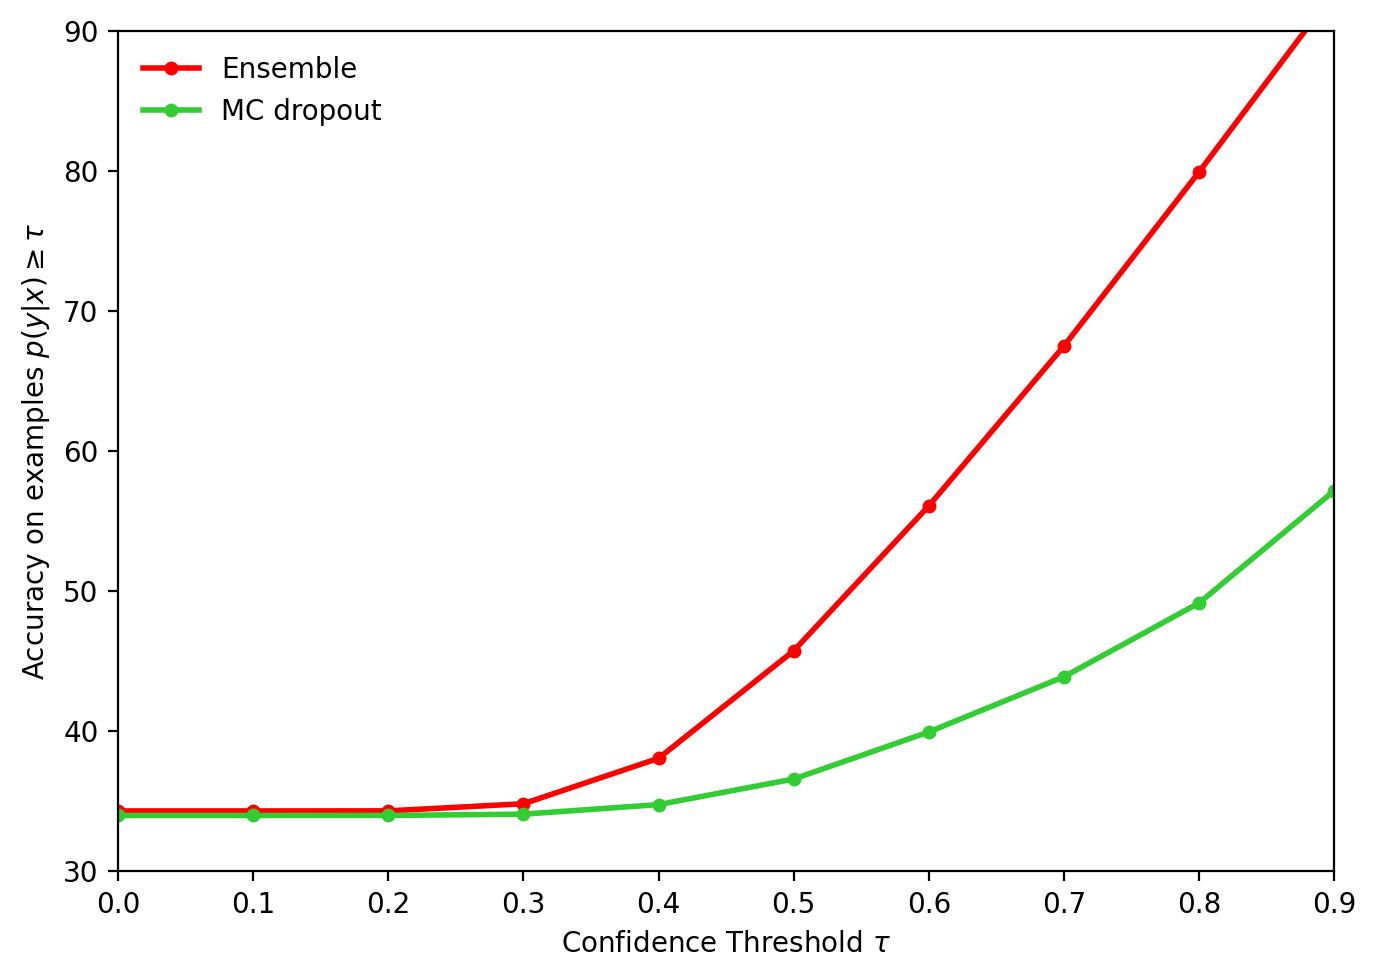
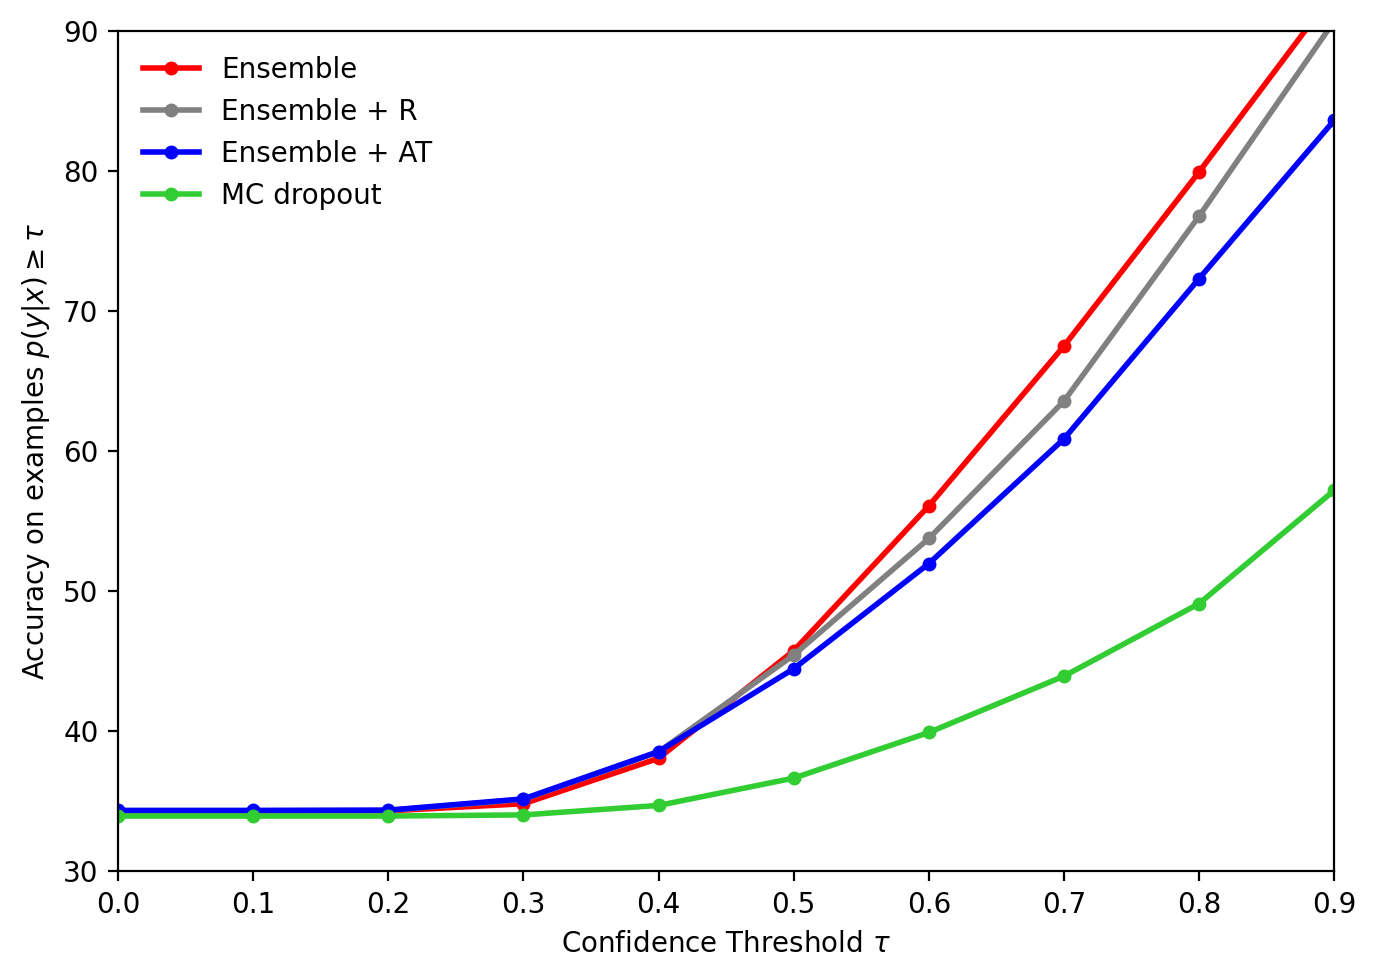
Update utils and plotting include AT and R

diff --git a/utils.py b/utils.py
@@ -21,12 +21,22 @@ def load_saved_ensemble(model_paths, device):
     return ensemble
 
 def get_mnist_checkpoint_paths():
-    ensemble_paths = [
-        f"models/classification/mnist/model_mnist_{i}.pt"
-        for i in range(1, 16)
-    ]
-    mc_dropout_path = "models/classification/mnist/model_mnist_mc_dropout.pt"
-    return ensemble_paths, mc_dropout_path
+    checkpoint_paths = {
+        "ensemble": [
+            f"models/classification/mnist/model_mnist_{i}.pt"
+            for i in range(1, 16)
+        ],
+        "ensemble_random": [
+            f"models/classification/mnist/model_random_augmentation_mnist_{i}.pt"
+            for i in range(1, 16)
+        ],
+        "ensemble_adversarial": [
+            f"models/classification/mnist/model_adversarial_augmentation_mnist_{i}.pt"
+            for i in range(1, 16)
+        ],
+        "mc_dropout": "models/classification/mnist/model_mnist_mc_dropout.pt",
+    }
+    return checkpoint_paths
 
 # Figure 3
 
@@ -36,30 +46,37 @@ def compute_entropy_comparison_results(
     device,
     ensemble_sizes=(1, 5, 10),
 ):
-    ensemble_paths, mc_dropout_path = get_mnist_checkpoint_paths()
+    checkpoint_paths = get_mnist_checkpoint_paths()
 
     experiment_results = {}
 
+    ensemble_methods = {
+      "ensemble": checkpoint_paths["ensemble"],
+      "ensemble_random": checkpoint_paths["ensemble_random"],
+      "ensemble_adversarial": checkpoint_paths["ensemble_adversarial"],
+    }
+
     # ---------- Ensembles ----------
-    for M in ensemble_sizes:
-        print(f"Running Ensemble M={M}")
-        ensemble_model = load_saved_ensemble(ensemble_paths[:M], device)
+    for method_name, model_paths in ensemble_methods.items():
+        for M in ensemble_sizes:
+            print(f"Running {method_name} M={M}")
+            ensemble_model = load_saved_ensemble(model_paths[:M], device)
 
-        mnist_probs, _ = get_predictions_and_targets(ensemble_model, mnist_test_loader, device)
-        notmnist_probs, _ = get_predictions_and_targets(ensemble_model, notmnist_loader, device)
+            mnist_probs, _ = get_predictions_and_targets(ensemble_model, mnist_test_loader, device)
+            notmnist_probs, _ = get_predictions_and_targets(ensemble_model, notmnist_loader, device)
 
-        mnist_entropy = compute_predictive_entropy(mnist_probs).cpu()
-        notmnist_entropy = compute_predictive_entropy(notmnist_probs).cpu()
+            mnist_entropy = compute_predictive_entropy(mnist_probs).cpu()
+            notmnist_entropy = compute_predictive_entropy(notmnist_probs).cpu()
 
-        experiment_results[("ensemble", M)] = {
-            "mnist_entropy": mnist_entropy,
-            "notmnist_entropy": notmnist_entropy,
-            "mnist_mean": mnist_entropy.mean().item(),
-            "notmnist_mean": notmnist_entropy.mean().item(),
-        }
+            experiment_results[(method_name, M)] = {
+                "mnist_entropy": mnist_entropy,
+                "notmnist_entropy": notmnist_entropy,
+                "mnist_mean": mnist_entropy.mean().item(),
+                "notmnist_mean": notmnist_entropy.mean().item(),
+            }
 
     # ---------- MC Dropout ----------
-    mc_model = load_saved_model(mc_dropout_path, device)
+    mc_model = load_saved_model(checkpoint_paths["mc_dropout"], device)
 
     for M in ensemble_sizes:
         print(f"Running MC Dropout M={M}")
@@ -120,29 +137,38 @@ def compute_confidence_comparison_results(
     if thresholds is None:
         thresholds = [round(x, 1) for x in torch.arange(0.0, 1.0, 0.1).tolist()]
 
-    ensemble_paths, mc_dropout_path = get_mnist_checkpoint_paths()
+    checkpoint_paths = get_mnist_checkpoint_paths()
 
     experiment_results = {}
 
+    ensemble_methods = {
+        "ensemble": checkpoint_paths["ensemble"],
+        "ensemble_random": checkpoint_paths["ensemble_random"],
+        "ensemble_adversarial": checkpoint_paths["ensemble_adversarial"],
+    }
+
     # ---------- Ensembles ----------
-    ensemble_model = load_saved_ensemble(ensemble_paths[:ensemble_size], device)
+    for method_name, model_paths in ensemble_methods.items():
+        print(f"Running {method_name} for Figure 6 with M={ensemble_size}")
+        ensemble_model = load_saved_ensemble(model_paths[:ensemble_size], device)
 
-    mnist_probs, mnist_targets = get_predictions_and_targets(ensemble_model, mnist_test_loader, device)
-    notmnist_probs, notmnist_targets = get_predictions_and_targets(ensemble_model, notmnist_loader, device)
+        mnist_probs, mnist_targets = get_predictions_and_targets(ensemble_model, mnist_test_loader, device)
+        notmnist_probs, notmnist_targets = get_predictions_and_targets(ensemble_model, notmnist_loader, device)
 
-    mixed_probs = torch.cat([mnist_probs.cpu(), notmnist_probs.cpu()], dim=0)
-    mixed_targets = torch.cat(
-        [mnist_targets.cpu(), torch.full_like(notmnist_targets.cpu(), -1)],
-        dim=0
-    )
+        mixed_probs = torch.cat([mnist_probs.cpu(), notmnist_probs.cpu()], dim=0)
+        mixed_targets = torch.cat(
+            [mnist_targets.cpu(), torch.full_like(notmnist_targets.cpu(), -1)],
+            dim=0
+        )
 
-    experiment_results["ensemble"] = compute_accuracy_vs_confidence_curve(
-        mixed_probs, mixed_targets, thresholds
-    )
+        experiment_results[method_name] = compute_accuracy_vs_confidence_curve(
+            mixed_probs, mixed_targets, thresholds
+        )
 
     # ---------- MC Dropout ----------
-    mc_model = load_saved_model(mc_dropout_path, device)
+    mc_model = load_saved_model(checkpoint_paths["mc_dropout"], device)
 
+    print(f"Running mc_dropout for Figure 6 with M={ensemble_size}")
     mnist_probs_mc, mnist_targets_mc = get_predictions_and_targets_mc_dropout(
         mc_model, mnist_test_loader, device, ensemble_size
     )

diff --git a/plotting.py b/plotting.py
@@ -30,51 +30,38 @@ def plot_entropy_comparison(experiment_results, ensemble_sizes=(1, 5, 10),
         10: "#cb181d"
     }
 
-    fig, axes = plt.subplots(2, 2, figsize=(12, 8), sharex=True)
+    method_order = [
+        ("ensemble", "Ensemble"),
+        ("ensemble_random", "Ensemble + R"),
+        ("ensemble_adversarial", "Ensemble + AT"),
+        ("mc_dropout", "MC dropout 0.1"),
+    ]
+
+    fig, axes = plt.subplots(2, 4, figsize=(16, 8), sharex=True)
 
     # ---------- MNIST ----------
-    for M in ensemble_sizes:
-        x, y = smooth_hist_line(
-            experiment_results[("ensemble", M)]["mnist_entropy"].numpy(),
-            bins=70,
-            value_range=(-0.5, 2.0),
-            smooth=True
-        )
-        axes[0, 0].plot(x, y, color=blue_colors[M], linewidth=2)
-
-    for M in ensemble_sizes:
-        x, y = smooth_hist_line(
-            experiment_results[("mc_dropout", M)]["mnist_entropy"].numpy(),
-            bins=70,
-            value_range=(-0.5, 2.0),
-            smooth=True
-        )
-        axes[0, 1].plot(x, y, color=blue_colors[M], linewidth=2)
+    for col, (method_key, title) in enumerate(method_order):
+        for M in ensemble_sizes:
+            x, y = smooth_hist_line(
+                experiment_results[(method_key, M)]["mnist_entropy"].numpy(),
+                bins=70,
+                value_range=(-0.5, 2.0),
+                smooth=True
+            )
+            axes[0, col].plot(x, y, color=blue_colors[M], linewidth=2)
+        axes[0, col].set_title(title)
 
     # ---------- NotMNIST ----------
-    for M in ensemble_sizes:
-        x, y = smooth_hist_line(
-            experiment_results[("ensemble", M)]["notmnist_entropy"].numpy(),
-            bins=70,
-            value_range=(-0.5, 2.0),
-            smooth=True
-        )
-        axes[1, 0].plot(x, y, color=red_colors[M], linewidth=2)
-
-    for M in ensemble_sizes:
-        x, y = smooth_hist_line(
-            experiment_results[("mc_dropout", M)]["notmnist_entropy"].numpy(),
-            bins=70,
-            value_range=(-0.5, 2.0),
-            smooth=True
-        )
-        axes[1, 1].plot(x, y, color=red_colors[M], linewidth=2)
-
-    # Titles
-    axes[0, 0].set_title("Ensemble")
-    axes[0, 1].set_title("MC dropout")
-    axes[1, 0].set_title("Ensemble")
-    axes[1, 1].set_title("MC dropout")
+    for col, (method_key, title) in enumerate(method_order):
+        for M in ensemble_sizes:
+            x, y = smooth_hist_line(
+                experiment_results[(method_key, M)]["notmnist_entropy"].numpy(),
+                bins=70,
+                value_range=(-0.5, 2.0),
+                smooth=True
+            )
+            axes[1, col].plot(x, y, color=red_colors[M], linewidth=2)
+        axes[1, col].set_title(title)
 
     # Labels
     for ax in axes.flat:
@@ -82,7 +69,7 @@ def plot_entropy_comparison(experiment_results, ensemble_sizes=(1, 5, 10),
         ax.set_xlim(-0.5, 2.0)
 
     for ax in axes[0]:
-      ax.tick_params(axis='x', labelbottom=True)
+        ax.tick_params(axis='x', labelbottom=True)
 
     axes[0, 0].set_ylabel("Known classes")
     axes[1, 0].set_ylabel("Unknown classes")
@@ -91,16 +78,13 @@ def plot_entropy_comparison(experiment_results, ensemble_sizes=(1, 5, 10),
     top_handles = [Line2D([0], [0], color=blue_colors[M], lw=2, label=str(M)) for M in ensemble_sizes]
     bottom_handles = [Line2D([0], [0], color=red_colors[M], lw=2, label=str(M)) for M in ensemble_sizes]
 
-    axes[0, 0].legend(handles=top_handles, frameon=False)
-    axes[0, 1].legend(handles=top_handles, frameon=False)
-    axes[1, 0].legend(handles=bottom_handles, frameon=False)
-    axes[1, 1].legend(handles=bottom_handles, frameon=False)
+    for col in range(4):
+        axes[0, col].legend(handles=top_handles, frameon=False, loc="upper right")
+        axes[1, col].legend(handles=bottom_handles, frameon=False, loc="upper right")
 
-    # Limits
-    axes[0, 0].set_ylim(0, 9)
-    axes[0, 1].set_ylim(0, 9)
-    axes[1, 0].set_ylim(0, 7)
-    axes[1, 1].set_ylim(0, 7)
+    for col in range(4):
+        axes[0, col].set_ylim(0, 14)
+        axes[1, col].set_ylim(0, 14)
 
     plt.suptitle("Predictive Entropy Histograms", y=1.02)
     plt.tight_layout()
@@ -114,25 +98,23 @@ def plot_accuracy_vs_confidence(
 ):
     fig, ax = plt.subplots(figsize=(7, 5))
 
-    ax.plot(
-        experiment_results["ensemble"]["thresholds"],
-        experiment_results["ensemble"]["accuracies"],
-        marker="o",
-        linewidth=2,
-        markersize=4,
-        label="Ensemble",
-        color="red",
-    )
+    method_styles = {
+        "ensemble": {"label": "Ensemble", "color": "red"},
+        "ensemble_random": {"label": "Ensemble + R", "color": "gray"},
+        "ensemble_adversarial": {"label": "Ensemble + AT", "color": "blue"},
+        "mc_dropout": {"label": "MC dropout", "color": "limegreen"},
+    }
 
-    ax.plot(
-        experiment_results["mc_dropout"]["thresholds"],
-        experiment_results["mc_dropout"]["accuracies"],
-        marker="o",
-        linewidth=2,
-        markersize=4,
-        label="MC dropout",
-        color="limegreen",
-    )
+    for method_key, style in method_styles.items():
+        ax.plot(
+            experiment_results[method_key]["thresholds"],
+            experiment_results[method_key]["accuracies"],
+            marker="o",
+            linewidth=2,
+            markersize=4,
+            label=style["label"],
+            color=style["color"],
+        )
 
     ax.set_xlabel(r"Confidence Threshold $\tau$")
     ax.set_ylabel(r"Accuracy on examples $p(y|x) \geq \tau$")
